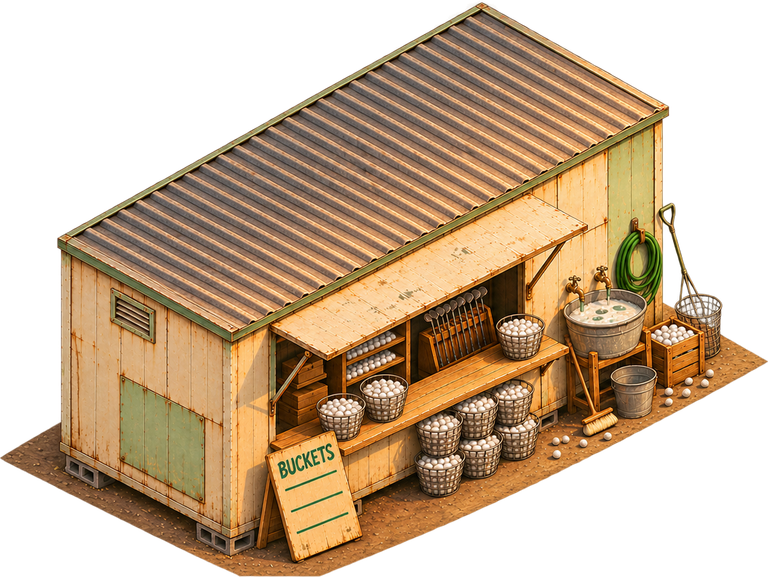
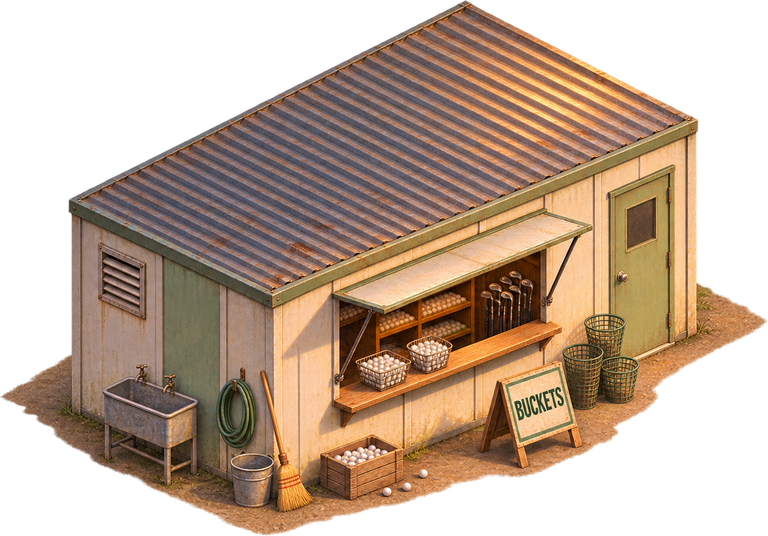
Range shop v7: painted from the game's style reference and an exact 2:1 isometric guide only (the owner: "you CANNNOT use the shack art as reffrence their Isometric degrees are wrong")
v6 had used the old shack painting as its reference. v7 attaches only theme-authoritative.png and the guide box; the building is described in words. Both views overlaid on the guides fit. v6 masters kept in art/range-kit/old/.

diff --git a/src/game/golf-library.ts b/src/game/golf-library.ts
@@ -23,7 +23,7 @@ export function appendKit(library: LibItem[]) {
   for (const item of KIT) if (!removed.has(item.id)) library.push({ ...item, tex: [golfPage, ...item.tex.slice(1)] as LibItem["tex"] });
 }
 /** T258: the range art (art/range-kit, prep-range-art.mjs: the owner's ChatGPT buildings and signs), on the golf page */
-const RANGE: LibItem[] = [{"id":"range:golf-range-deck-view2","name":"Double-deck hitting stand (view 2)","cat":"Range art","kind":"business","w":864,"h":771.39,"ax":432,"ay":560.02,"boxes":[{"hx":3.5,"hy":10,"dx":0,"dy":0}],"solid":1,"big":true,"door":false,"cost":0,"tex":[0,0.44287109375,0.458984375,0.69580078125,0.68505859375],"quad":[0,0,864,771.39]},{"id":"range:golf-range-floodlight-view1","name":"Floodlight mast (view 1)","cat":"Range art","kind":"business","w":290.405,"h":768,"ax":189.912,"ay":752,"boxes":[{"hx":0.5,"hy":0.5,"dx":0,"dy":0}],"solid":1,"big":false,"door":false,"cost":0,"tex":[0,0.70361328125,0.458984375,0.78857421875,0.68408203125],"quad":[0,0,290.405,768]},{"id":"range:golf-range-floodlight-view2","name":"Floodlight mast (view 2)","cat":"Range art","kind":"business","w":254.676,"h":768,"ax":97.373,"ay":752,"boxes":[{"hx":0.5,"hy":0.5,"dx":0,"dy":0}],"solid":1,"big":false,"door":false,"cost":0,"tex":[0,0.79638671875,0.458984375,0.87109375,0.68408203125],"quad":[0,0,254.676,768]},{"id":"range:golf-range-deck-view1","name":"Double-deck hitting stand (view 1)","cat":"Range art","kind":"business","w":864,"h":730.085,"ax":432,"ay":538.636,"boxes":[{"hx":10,"hy":3.5,"dx":0,"dy":0}],"solid":1,"big":true,"door":false,"cost":0,"tex":[0,0.0078125,0.69287109375,0.2607421875,0.90673828125],"quad":[0,0,864,730.085]},{"id":"range:golf-clubhouse-shanty-view1","name":"Range shop (asbestos-panel hut) (view 1)","cat":"Range art","kind":"business","w":384,"h":296.219,"ax":192,"ay":212.908,"boxes":[{"hx":3.75,"hy":2.25,"dx":0,"dy":0}],"solid":1,"big":true,"door":false,"cost":0,"tex":[0,0.2685546875,0.69287109375,0.380859375,0.77978515625],"quad":[0,0,384,296.219]},{"id":"range:golf-clubhouse-shanty-view2","name":"Range shop (asbestos-panel hut) (view 2)","cat":"Range art","kind":"business","w":384,"h":288.484,"ax":192,"ay":205.392,"boxes":[{"hx":2.25,"hy":3.75,"dx":0,"dy":0}],"solid":1,"big":true,"door":false,"cost":0,"tex":[0,0.388671875,0.69287109375,0.5009765625,0.77734375],"quad":[0,0,384,288.484]},{"id":"range:golf-range-coffee-kiosk-view1","name":"Coffee kiosk (view 1)","cat":"Range art","kind":"business","w":176,"h":175.019,"ax":88,"ay":138.986,"boxes":[{"hx":1.5,"hy":1.25,"dx":0,"dy":0}],"solid":1,"big":false,"door":false,"cost":0,"tex":[0,0.5087890625,0.69287109375,0.560546875,0.744140625],"quad":[0,0,176,175.019]},{"id":"range:golf-range-coffee-kiosk-view2","name":"Coffee kiosk (view 2)","cat":"Range art","kind":"business","w":176,"h":175.749,"ax":88,"ay":135.259,"boxes":[{"hx":1.25,"hy":1.5,"dx":0,"dy":0}],"solid":1,"big":false,"door":false,"cost":0,"tex":[0,0.568359375,0.69287109375,0.6201171875,0.744140625],"quad":[0,0,176,175.749]},{"id":"range:golf-range-sign-view2","name":"Driving Range road sign (view 2)","cat":"Range art","kind":"business","w":144,"h":151.969,"ax":72,"ay":115.923,"boxes":[{"hx":0.25,"hy":2,"dx":0,"dy":0}],"solid":1,"big":false,"door":false,"cost":0,"tex":[0,0.6279296875,0.69287109375,0.669921875,0.7373046875],"quad":[0,0,144,151.969]},{"id":"range:golf-range-yardage-board-view2","name":"Yardage board (view 2)","cat":"Range art","kind":"business","w":80,"h":139.557,"ax":40,"ay":128.048,"boxes":[{"hx":0.25,"hy":1,"dx":0,"dy":0}],"solid":1,"big":false,"door":false,"cost":0,"tex":[0,0.677734375,0.69287109375,0.701171875,0.73388671875],"quad":[0,0,80,139.557]},{"id":"range:golf-range-yard-50-view2","name":"Yardage sign 50 m (view 2)","cat":"Range art","kind":"business","w":80,"h":140,"ax":40,"ay":128.629,"boxes":[{"hx":0.25,"hy":1,"dx":0,"dy":0}],"solid":1,"big":false,"door":false,"cost":0,"tex":[0,0.708984375,0.69287109375,0.732421875,0.73388671875],"quad":[0,0,80,140]},{"id":"range:golf-range-yard-75-view2","name":"Yardage sign 75 m (view 2)","cat":"Range art","kind":"business","w":80,"h":139.839,"ax":40,"ay":128.306,"boxes":[{"hx":0.25,"hy":1,"dx":0,"dy":0}],"solid":1,"big":false,"door":false,"cost":0,"tex":[0,0.740234375,0.69287109375,0.763671875,0.73388671875],"quad":[0,0,80,139.839]},{"id":"range:golf-range-yard-100-view2","name":"Yardage sign 100 m (view 2)","cat":"Range art","kind":"business","w":80,"h":140.121,"ax":40,"ay":128.646,"boxes":[{"hx":0.25,"hy":1,"dx":0,"dy":0}],"solid":1,"big":false,"door":false,"cost":0,"tex":[0,0.771484375,0.69287109375,0.794921875,0.73388671875],"quad":[0,0,80,140.121]},{"id":"range:golf-range-yard-125-view2","name":"Yardage sign 125 m (view 2)","cat":"Range art","kind":"business","w":80,"h":140.283,"ax":40,"ay":128.808,"boxes":[{"hx":0.25,"hy":1,"dx":0,"dy":0}],"solid":1,"big":false,"door":false,"cost":0,"tex":[0,0.802734375,0.69287109375,0.826171875,0.73388671875],"quad":[0,0,80,140.283]},{"id":"range:golf-range-yard-150-view2","name":"Yardage sign 150 m (view 2)","cat":"Range art","kind":"business","w":80,"h":140.283,"ax":40,"ay":128.646,"boxes":[{"hx":0.25,"hy":1,"dx":0,"dy":0}],"solid":1,"big":false,"door":false,"cost":0,"tex":[0,0.833984375,0.69287109375,0.857421875,0.73388671875],"quad":[0,0,80,140.283]},{"id":"range:golf-range-yard-175-view2","name":"Yardage sign 175 m (view 2)","cat":"Range art","kind":"business","w":80,"h":139.677,"ax":40,"ay":128.145,"boxes":[{"hx":0.25,"hy":1,"dx":0,"dy":0}],"solid":1,"big":false,"door":false,"cost":0,"tex":[0,0.865234375,0.69287109375,0.888671875,0.73388671875],"quad":[0,0,80,139.677]},{"id":"range:golf-range-yard-200-view2","name":"Yardage sign 200 m (view 2)","cat":"Range art","kind":"business","w":80,"h":140.567,"ax":40,"ay":128.988,"boxes":[{"hx":0.25,"hy":1,"dx":0,"dy":0}],"solid":1,"big":false,"door":false,"cost":0,"tex":[0,0.896484375,0.69287109375,0.919921875,0.73388671875],"quad":[0,0,80,140.567]},{"id":"range:golf-range-yard-250-view2","name":"Yardage sign 250 m (view 2)","cat":"Range art","kind":"business","w":80,"h":140.567,"ax":40,"ay":128.988,"boxes":[{"hx":0.25,"hy":1,"dx":0,"dy":0}],"solid":1,"big":false,"door":false,"cost":0,"tex":[0,0.927734375,0.69287109375,0.951171875,0.73388671875],"quad":[0,0,80,140.567]},{"id":"range:golf-range-sign-view1","name":"Driving Range road sign (view 1)","cat":"Range art","kind":"business","w":144,"h":135.692,"ax":72,"ay":107.186,"boxes":[{"hx":2,"hy":0.25,"dx":0,"dy":0}],"solid":1,"big":false,"door":false,"cost":0,"tex":[0,0.0078125,0.91455078125,0.0498046875,0.9541015625],"quad":[0,0,144,135.692]},{"id":"range:golf-range-yardage-board-view1","name":"Yardage board (view 1)","cat":"Range art","kind":"business","w":80,"h":134.72,"ax":40,"ay":125.68,"boxes":[{"hx":1,"hy":0.25,"dx":0,"dy":0}],"solid":1,"big":false,"door":false,"cost":0,"tex":[0,0.0576171875,0.91455078125,0.0810546875,0.9541015625],"quad":[0,0,80,134.72]},{"id":"range:golf-range-yard-75-view1","name":"Yardage sign 75 m (view 1)","cat":"Range art","kind":"business","w":80,"h":134.72,"ax":40,"ay":125.68,"boxes":[{"hx":1,"hy":0.25,"dx":0,"dy":0}],"solid":1,"big":false,"door":false,"cost":0,"tex":[0,0.0888671875,0.91455078125,0.1123046875,0.9541015625],"quad":[0,0,80,134.72]},{"id":"range:golf-range-yard-100-view1","name":"Yardage sign 100 m (view 1)","cat":"Range art","kind":"business","w":80,"h":134.779,"ax":40,"ay":125.944,"boxes":[{"hx":1,"hy":0.25,"dx":0,"dy":0}],"solid":1,"big":false,"door":false,"cost":0,"tex":[0,0.1201171875,0.91455078125,0.1435546875,0.9541015625],"quad":[0,0,80,134.779]},{"id":"range:golf-range-yard-125-view1","name":"Yardage sign 125 m (view 1)","cat":"Range art","kind":"business","w":80,"h":134.72,"ax":40,"ay":125.68,"boxes":[{"hx":1,"hy":0.25,"dx":0,"dy":0}],"solid":1,"big":false,"door":false,"cost":0,"tex":[0,0.1513671875,0.91455078125,0.1748046875,0.9541015625],"quad":[0,0,80,134.72]},{"id":"range:golf-range-yard-150-view1","name":"Yardage sign 150 m (view 1)","cat":"Range art","kind":"business","w":80,"h":135.1,"ax":40,"ay":126.104,"boxes":[{"hx":1,"hy":0.25,"dx":0,"dy":0}],"solid":1,"big":false,"door":false,"cost":0,"tex":[0,0.1826171875,0.91455078125,0.2060546875,0.9541015625],"quad":[0,0,80,135.1]},{"id":"range:golf-range-yard-175-view1","name":"Yardage sign 175 m (view 1)","cat":"Range art","kind":"business","w":80,"h":134.72,"ax":40,"ay":125.6,"boxes":[{"hx":1,"hy":0.25,"dx":0,"dy":0}],"solid":1,"big":false,"door":false,"cost":0,"tex":[0,0.2138671875,0.91455078125,0.2373046875,0.9541015625],"quad":[0,0,80,134.72]},{"id":"range:golf-range-yard-200-view1","name":"Yardage sign 200 m (view 1)","cat":"Range art","kind":"business","w":80,"h":134.509,"ax":40,"ay":125.531,"boxes":[{"hx":1,"hy":0.25,"dx":0,"dy":0}],"solid":1,"big":false,"door":false,"cost":0,"tex":[0,0.2451171875,0.91455078125,0.2685546875,0.9541015625],"quad":[0,0,80,134.509]},{"id":"range:golf-range-yard-250-view1","name":"Yardage sign 250 m (view 1)","cat":"Range art","kind":"business","w":80,"h":134.72,"ax":40,"ay":125.84,"boxes":[{"hx":1,"hy":0.25,"dx":0,"dy":0}],"solid":1,"big":false,"door":false,"cost":0,"tex":[0,0.2763671875,0.91455078125,0.2998046875,0.9541015625],"quad":[0,0,80,134.72]},{"id":"range:golf-range-yard-50-view1","name":"Yardage sign 50 m (view 1)","cat":"Range art","kind":"business","w":80,"h":133.798,"ax":40,"ay":124.729,"boxes":[{"hx":1,"hy":0.25,"dx":0,"dy":0}],"solid":1,"big":false,"door":false,"cost":0,"tex":[0,0.3076171875,0.91455078125,0.3310546875,0.95361328125],"quad":[0,0,80,133.798]},{"id":"range:golf-range-ball-dispenser-view2","name":"Ball dispenser (view 2)","cat":"Range art","kind":"business","w":80,"h":107.365,"ax":40,"ay":89.034,"boxes":[{"hx":0.5,"hy":0.75,"dx":0,"dy":0}],"solid":1,"big":false,"door":false,"cost":0,"tex":[0,0.3388671875,0.91455078125,0.3623046875,0.94580078125],"quad":[0,0,80,107.365]},{"id":"range:golf-range-ball-dispenser-view1","name":"Ball dispenser (view 1)","cat":"Range art","kind":"business","w":80,"h":104.495,"ax":40,"ay":93.876,"boxes":[{"hx":0.75,"hy":0.5,"dx":0,"dy":0}],"solid":1,"big":false,"door":false,"cost":0,"tex":[0,0.3701171875,0.91455078125,0.3935546875,0.9453125],"quad":[0,0,80,104.495]},{"id":"range:golf-range-distance-post-1view","name":"Distance marker post","cat":"Range art","kind":"business","w":25.969,"h":96,"ax":14.072,"ay":88,"boxes":[{"hx":0.25,"hy":0.25,"dx":0,"dy":0}],"solid":1,"big":false,"door":false,"cost":0,"tex":[0,0.4013671875,0.91455078125,0.4091796875,0.94287109375],"quad":[0,0,25.969,96]}];
+const RANGE: LibItem[] = [{"id":"range:golf-range-deck-view2","name":"Double-deck hitting stand (view 2)","cat":"Range art","kind":"business","w":864,"h":771.39,"ax":432,"ay":560.02,"boxes":[{"hx":3.5,"hy":10,"dx":0,"dy":0}],"solid":1,"big":true,"door":false,"cost":0,"tex":[0,0.44287109375,0.458984375,0.69580078125,0.68505859375],"quad":[0,0,864,771.39]},{"id":"range:golf-range-floodlight-view1","name":"Floodlight mast (view 1)","cat":"Range art","kind":"business","w":290.405,"h":768,"ax":189.912,"ay":752,"boxes":[{"hx":0.5,"hy":0.5,"dx":0,"dy":0}],"solid":1,"big":false,"door":false,"cost":0,"tex":[0,0.70361328125,0.458984375,0.78857421875,0.68408203125],"quad":[0,0,290.405,768]},{"id":"range:golf-range-floodlight-view2","name":"Floodlight mast (view 2)","cat":"Range art","kind":"business","w":254.676,"h":768,"ax":97.373,"ay":752,"boxes":[{"hx":0.5,"hy":0.5,"dx":0,"dy":0}],"solid":1,"big":false,"door":false,"cost":0,"tex":[0,0.79638671875,0.458984375,0.87109375,0.68408203125],"quad":[0,0,254.676,768]},{"id":"range:golf-range-deck-view1","name":"Double-deck hitting stand (view 1)","cat":"Range art","kind":"business","w":864,"h":730.085,"ax":432,"ay":538.636,"boxes":[{"hx":10,"hy":3.5,"dx":0,"dy":0}],"solid":1,"big":true,"door":false,"cost":0,"tex":[0,0.0078125,0.69287109375,0.2607421875,0.90673828125],"quad":[0,0,864,730.085]},{"id":"range:golf-clubhouse-shanty-view1","name":"Range shop (asbestos-panel hut) (view 1)","cat":"Range art","kind":"business","w":384,"h":293.914,"ax":192,"ay":215.494,"boxes":[{"hx":3.75,"hy":2.25,"dx":0,"dy":0}],"solid":1,"big":true,"door":false,"cost":0,"tex":[0,0.2685546875,0.69287109375,0.380859375,0.77880859375],"quad":[0,0,384,293.914]},{"id":"range:golf-clubhouse-shanty-view2","name":"Range shop (asbestos-panel hut) (view 2)","cat":"Range art","kind":"business","w":384,"h":267.797,"ax":192,"ay":179.908,"boxes":[{"hx":2.25,"hy":3.75,"dx":0,"dy":0}],"solid":1,"big":true,"door":false,"cost":0,"tex":[0,0.388671875,0.69287109375,0.5009765625,0.771484375],"quad":[0,0,384,267.797]},{"id":"range:golf-range-coffee-kiosk-view1","name":"Coffee kiosk (view 1)","cat":"Range art","kind":"business","w":176,"h":175.019,"ax":88,"ay":138.986,"boxes":[{"hx":1.5,"hy":1.25,"dx":0,"dy":0}],"solid":1,"big":false,"door":false,"cost":0,"tex":[0,0.5087890625,0.69287109375,0.560546875,0.744140625],"quad":[0,0,176,175.019]},{"id":"range:golf-range-coffee-kiosk-view2","name":"Coffee kiosk (view 2)","cat":"Range art","kind":"business","w":176,"h":175.749,"ax":88,"ay":135.259,"boxes":[{"hx":1.25,"hy":1.5,"dx":0,"dy":0}],"solid":1,"big":false,"door":false,"cost":0,"tex":[0,0.568359375,0.69287109375,0.6201171875,0.744140625],"quad":[0,0,176,175.749]},{"id":"range:golf-range-sign-view2","name":"Driving Range road sign (view 2)","cat":"Range art","kind":"business","w":144,"h":151.969,"ax":72,"ay":115.923,"boxes":[{"hx":0.25,"hy":2,"dx":0,"dy":0}],"solid":1,"big":false,"door":false,"cost":0,"tex":[0,0.6279296875,0.69287109375,0.669921875,0.7373046875],"quad":[0,0,144,151.969]},{"id":"range:golf-range-yardage-board-view2","name":"Yardage board (view 2)","cat":"Range art","kind":"business","w":80,"h":139.557,"ax":40,"ay":128.048,"boxes":[{"hx":0.25,"hy":1,"dx":0,"dy":0}],"solid":1,"big":false,"door":false,"cost":0,"tex":[0,0.677734375,0.69287109375,0.701171875,0.73388671875],"quad":[0,0,80,139.557]},{"id":"range:golf-range-yard-50-view2","name":"Yardage sign 50 m (view 2)","cat":"Range art","kind":"business","w":80,"h":140,"ax":40,"ay":128.629,"boxes":[{"hx":0.25,"hy":1,"dx":0,"dy":0}],"solid":1,"big":false,"door":false,"cost":0,"tex":[0,0.708984375,0.69287109375,0.732421875,0.73388671875],"quad":[0,0,80,140]},{"id":"range:golf-range-yard-75-view2","name":"Yardage sign 75 m (view 2)","cat":"Range art","kind":"business","w":80,"h":139.839,"ax":40,"ay":128.306,"boxes":[{"hx":0.25,"hy":1,"dx":0,"dy":0}],"solid":1,"big":false,"door":false,"cost":0,"tex":[0,0.740234375,0.69287109375,0.763671875,0.73388671875],"quad":[0,0,80,139.839]},{"id":"range:golf-range-yard-100-view2","name":"Yardage sign 100 m (view 2)","cat":"Range art","kind":"business","w":80,"h":140.121,"ax":40,"ay":128.646,"boxes":[{"hx":0.25,"hy":1,"dx":0,"dy":0}],"solid":1,"big":false,"door":false,"cost":0,"tex":[0,0.771484375,0.69287109375,0.794921875,0.73388671875],"quad":[0,0,80,140.121]},{"id":"range:golf-range-yard-125-view2","name":"Yardage sign 125 m (view 2)","cat":"Range art","kind":"business","w":80,"h":140.283,"ax":40,"ay":128.808,"boxes":[{"hx":0.25,"hy":1,"dx":0,"dy":0}],"solid":1,"big":false,"door":false,"cost":0,"tex":[0,0.802734375,0.69287109375,0.826171875,0.73388671875],"quad":[0,0,80,140.283]},{"id":"range:golf-range-yard-150-view2","name":"Yardage sign 150 m (view 2)","cat":"Range art","kind":"business","w":80,"h":140.283,"ax":40,"ay":128.646,"boxes":[{"hx":0.25,"hy":1,"dx":0,"dy":0}],"solid":1,"big":false,"door":false,"cost":0,"tex":[0,0.833984375,0.69287109375,0.857421875,0.73388671875],"quad":[0,0,80,140.283]},{"id":"range:golf-range-yard-175-view2","name":"Yardage sign 175 m (view 2)","cat":"Range art","kind":"business","w":80,"h":139.677,"ax":40,"ay":128.145,"boxes":[{"hx":0.25,"hy":1,"dx":0,"dy":0}],"solid":1,"big":false,"door":false,"cost":0,"tex":[0,0.865234375,0.69287109375,0.888671875,0.73388671875],"quad":[0,0,80,139.677]},{"id":"range:golf-range-yard-200-view2","name":"Yardage sign 200 m (view 2)","cat":"Range art","kind":"business","w":80,"h":140.567,"ax":40,"ay":128.988,"boxes":[{"hx":0.25,"hy":1,"dx":0,"dy":0}],"solid":1,"big":false,"door":false,"cost":0,"tex":[0,0.896484375,0.69287109375,0.919921875,0.73388671875],"quad":[0,0,80,140.567]},{"id":"range:golf-range-yard-250-view2","name":"Yardage sign 250 m (view 2)","cat":"Range art","kind":"business","w":80,"h":140.567,"ax":40,"ay":128.988,"boxes":[{"hx":0.25,"hy":1,"dx":0,"dy":0}],"solid":1,"big":false,"door":false,"cost":0,"tex":[0,0.927734375,0.69287109375,0.951171875,0.73388671875],"quad":[0,0,80,140.567]},{"id":"range:golf-range-sign-view1","name":"Driving Range road sign (view 1)","cat":"Range art","kind":"business","w":144,"h":135.692,"ax":72,"ay":107.186,"boxes":[{"hx":2,"hy":0.25,"dx":0,"dy":0}],"solid":1,"big":false,"door":false,"cost":0,"tex":[0,0.0078125,0.91455078125,0.0498046875,0.9541015625],"quad":[0,0,144,135.692]},{"id":"range:golf-range-yardage-board-view1","name":"Yardage board (view 1)","cat":"Range art","kind":"business","w":80,"h":134.72,"ax":40,"ay":125.68,"boxes":[{"hx":1,"hy":0.25,"dx":0,"dy":0}],"solid":1,"big":false,"door":false,"cost":0,"tex":[0,0.0576171875,0.91455078125,0.0810546875,0.9541015625],"quad":[0,0,80,134.72]},{"id":"range:golf-range-yard-75-view1","name":"Yardage sign 75 m (view 1)","cat":"Range art","kind":"business","w":80,"h":134.72,"ax":40,"ay":125.68,"boxes":[{"hx":1,"hy":0.25,"dx":0,"dy":0}],"solid":1,"big":false,"door":false,"cost":0,"tex":[0,0.0888671875,0.91455078125,0.1123046875,0.9541015625],"quad":[0,0,80,134.72]},{"id":"range:golf-range-yard-100-view1","name":"Yardage sign 100 m (view 1)","cat":"Range art","kind":"business","w":80,"h":134.779,"ax":40,"ay":125.944,"boxes":[{"hx":1,"hy":0.25,"dx":0,"dy":0}],"solid":1,"big":false,"door":false,"cost":0,"tex":[0,0.1201171875,0.91455078125,0.1435546875,0.9541015625],"quad":[0,0,80,134.779]},{"id":"range:golf-range-yard-125-view1","name":"Yardage sign 125 m (view 1)","cat":"Range art","kind":"business","w":80,"h":134.72,"ax":40,"ay":125.68,"boxes":[{"hx":1,"hy":0.25,"dx":0,"dy":0}],"solid":1,"big":false,"door":false,"cost":0,"tex":[0,0.1513671875,0.91455078125,0.1748046875,0.9541015625],"quad":[0,0,80,134.72]},{"id":"range:golf-range-yard-150-view1","name":"Yardage sign 150 m (view 1)","cat":"Range art","kind":"business","w":80,"h":135.1,"ax":40,"ay":126.104,"boxes":[{"hx":1,"hy":0.25,"dx":0,"dy":0}],"solid":1,"big":false,"door":false,"cost":0,"tex":[0,0.1826171875,0.91455078125,0.2060546875,0.9541015625],"quad":[0,0,80,135.1]},{"id":"range:golf-range-yard-175-view1","name":"Yardage sign 175 m (view 1)","cat":"Range art","kind":"business","w":80,"h":134.72,"ax":40,"ay":125.6,"boxes":[{"hx":1,"hy":0.25,"dx":0,"dy":0}],"solid":1,"big":false,"door":false,"cost":0,"tex":[0,0.2138671875,0.91455078125,0.2373046875,0.9541015625],"quad":[0,0,80,134.72]},{"id":"range:golf-range-yard-200-view1","name":"Yardage sign 200 m (view 1)","cat":"Range art","kind":"business","w":80,"h":134.509,"ax":40,"ay":125.531,"boxes":[{"hx":1,"hy":0.25,"dx":0,"dy":0}],"solid":1,"big":false,"door":false,"cost":0,"tex":[0,0.2451171875,0.91455078125,0.2685546875,0.9541015625],"quad":[0,0,80,134.509]},{"id":"range:golf-range-yard-250-view1","name":"Yardage sign 250 m (view 1)","cat":"Range art","kind":"business","w":80,"h":134.72,"ax":40,"ay":125.84,"boxes":[{"hx":1,"hy":0.25,"dx":0,"dy":0}],"solid":1,"big":false,"door":false,"cost":0,"tex":[0,0.2763671875,0.91455078125,0.2998046875,0.9541015625],"quad":[0,0,80,134.72]},{"id":"range:golf-range-yard-50-view1","name":"Yardage sign 50 m (view 1)","cat":"Range art","kind":"business","w":80,"h":133.798,"ax":40,"ay":124.729,"boxes":[{"hx":1,"hy":0.25,"dx":0,"dy":0}],"solid":1,"big":false,"door":false,"cost":0,"tex":[0,0.3076171875,0.91455078125,0.3310546875,0.95361328125],"quad":[0,0,80,133.798]},{"id":"range:golf-range-ball-dispenser-view2","name":"Ball dispenser (view 2)","cat":"Range art","kind":"business","w":80,"h":107.365,"ax":40,"ay":89.034,"boxes":[{"hx":0.5,"hy":0.75,"dx":0,"dy":0}],"solid":1,"big":false,"door":false,"cost":0,"tex":[0,0.3388671875,0.91455078125,0.3623046875,0.94580078125],"quad":[0,0,80,107.365]},{"id":"range:golf-range-ball-dispenser-view1","name":"Ball dispenser (view 1)","cat":"Range art","kind":"business","w":80,"h":104.495,"ax":40,"ay":93.876,"boxes":[{"hx":0.75,"hy":0.5,"dx":0,"dy":0}],"solid":1,"big":false,"door":false,"cost":0,"tex":[0,0.3701171875,0.91455078125,0.3935546875,0.9453125],"quad":[0,0,80,104.495]},{"id":"range:golf-range-distance-post-1view","name":"Distance marker post","cat":"Range art","kind":"business","w":25.969,"h":96,"ax":14.072,"ay":88,"boxes":[{"hx":0.25,"hy":0.25,"dx":0,"dy":0}],"solid":1,"big":false,"door":false,"cost":0,"tex":[0,0.4013671875,0.91455078125,0.4091796875,0.94287109375],"quad":[0,0,25.969,96]}];
 /** T258: the range art, after every other library (it shares the golf page: appendGolf must have run), so no saved index moves */
 export function appendRangeArt(library: LibItem[]) {
   if (golfPage < 0) throw new Error('appendRangeArt before appendGolf');
